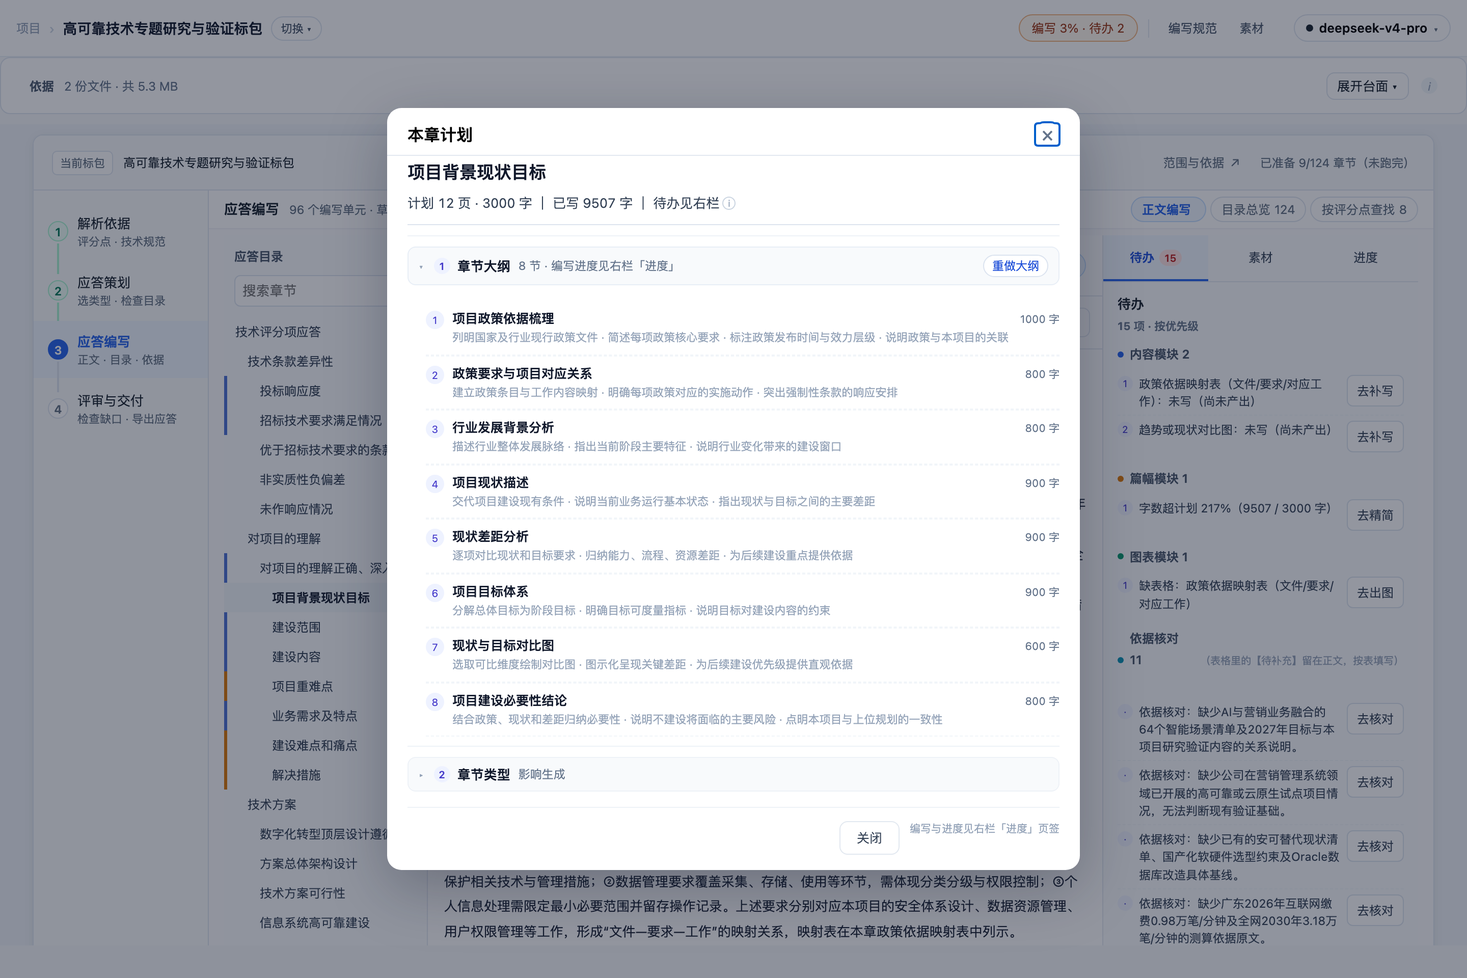
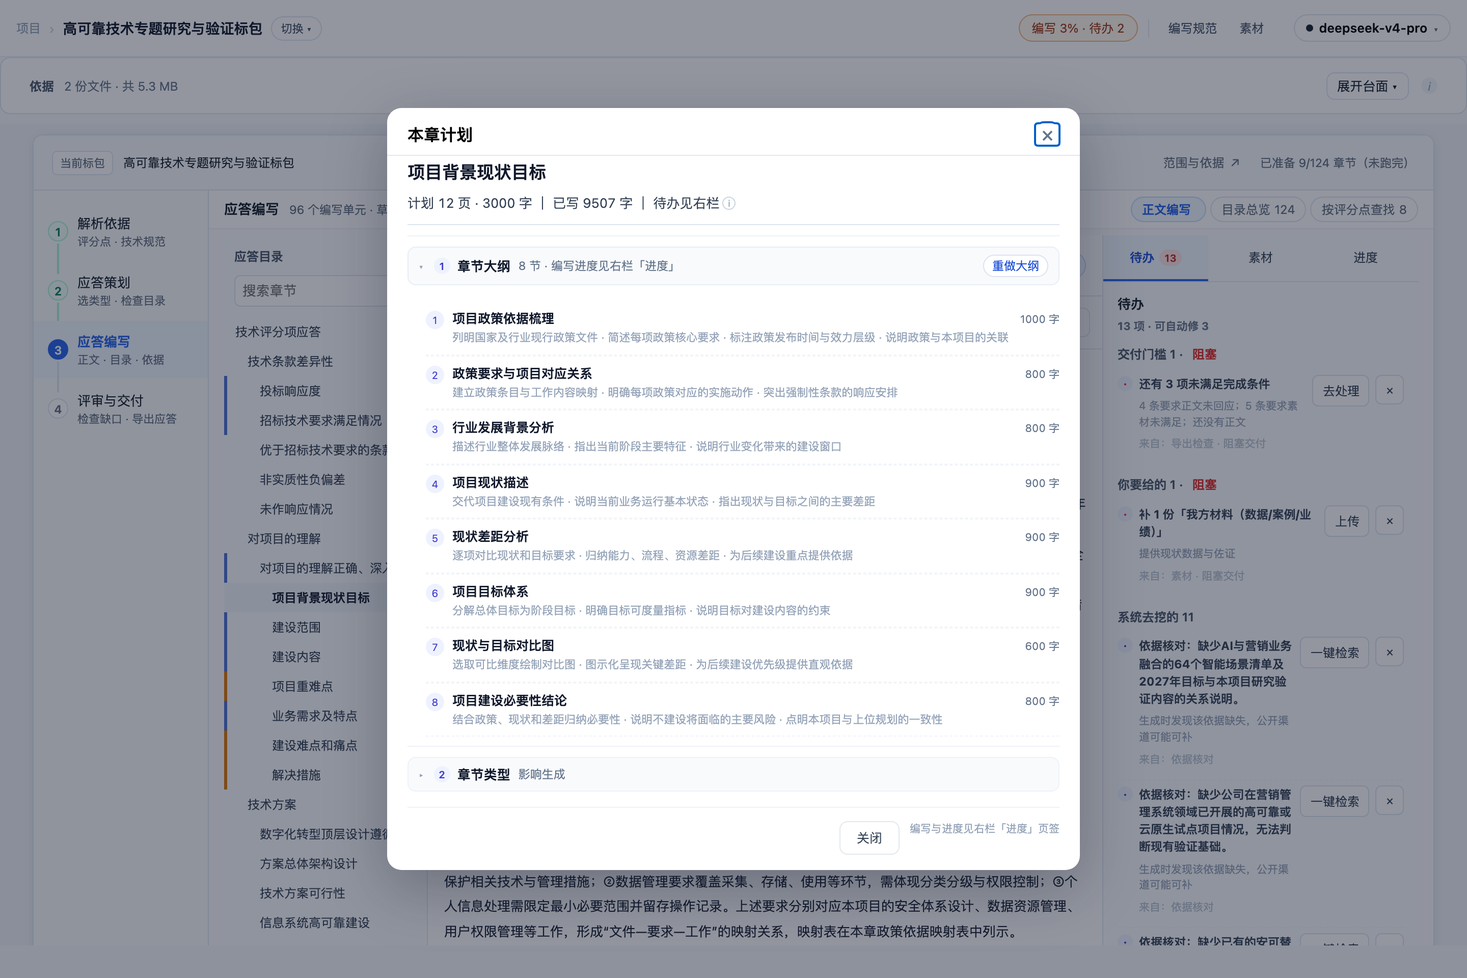
feat(待办): 重构为"按责任分组" —— 从计划完成度改为交付就绪度
按《待办模块-梳理与优化方案》实施 T1/T2/T3/T5(部分)/T6/T7-lite。

## 后端：统一待办 schema（services/writing_plans.py）
`build_todo_items()` 把已有检查结果重排成按"谁来消除"分组：
- gate 交付门槛（阻塞导出）：正文为空 / 完成条件未满足
- user 你要给的（上传）：素材缺口里 availability=upload
- search 系统去挖的（一键检索）：依据核对 + availability=public
- auto 系统自己修的（折叠）：字数不足 / 缺表缺图 / 篇幅超
- decide / proof 预留（一致性、数字核对，T4 未做）
每条统一字段：id/group/group_label/title/evidence/source/severity/action/action_label/status
plan 新增 `todo_items` + `todo_groups`（保留旧 `todo` 兼容）

## 前端：按责任分组渲染
- 组顺序：交付门槛 → 你要给的 → 要你拍板的 → 要你核对的 → 系统去挖的
- 每行：标题 + 证据 + 来源/级别 + 一个主动作 + ×（忽略）
- 阻塞项标红「阻塞」，并排在前面
- E 组折叠为「系统可自动修复 N 项」（不占待办行）
- 徽标口径 = 非 auto 项数（与面板一致）
- 动作：上传→素材页签；一键检索→检索；去处理→完成检查；一键修复→补写该节

## 验证
- 后端接口：16 项 → gate 1 / user 1 / search 11 / auto 3；阻塞项排最前
- 前端实测：面板「13 项 · 可自动修 3」+ 三组 + 折叠区，徽标 13 一致
- 新增后端单测 1 条（分组与字段形态）；界面规则 53 条（新增"自动修复折叠"）
- 后端 974 passed · 界面 53/53（v368）

Changed region(s): [[0.75, 0.5625, 0.9375, 0.9688], [0.75, 0.3125, 0.9375, 0.5312]]

diff --git a/frontend/assets/mode-outline.js b/frontend/assets/mode-outline.js
@@ -2,9 +2,9 @@
    抽成模块的目的：两段内联脚本有 90 个同名顶层标识符 + 18 个重复 DOM id，
    同页拼接必然互相覆盖；各自成为一个模块即各自一个作用域。
    本文件在抽取时**未改任何逻辑**。 */
-import {mountChapterStudio, exportDocument} from './chapter-studio.mjs?v=20261016-v367';
-import { api } from './api.js?v=20261016-v367';
-import { specContentHtml } from './spec-content.mjs?v=20261016-v367';
+import {mountChapterStudio, exportDocument} from './chapter-studio.mjs?v=20261016-v368';
+import { api } from './api.js?v=20261016-v368';
+import { specContentHtml } from './spec-content.mjs?v=20261016-v368';
 // 顶栏（项目名旁边那行「第 N 轮 · ...」）由共享壳 workspace.js 渲染。这里要把它
 // 改成**页面自己的真实状态**：checkpoint 的 stage 在准备中/编写准备完成后都停在
 // outline_review，只看它的话顶栏永远显示"待确认目录"（实测就是这个问题）。
@@ -12,7 +12,7 @@ import { workspace, renderWorkspaceChrome,
          REQUIREMENT_ROLES, SELECTABLE_REQUIREMENT_ROLES, ROLE_LABEL_SHARED, ROLE_HINT_SHARED,
          roleMismatchWarning, inferRoleFromFilename,
          uiAlert, uiConfirm,
-       } from './workspace.js?v=20261016-v367';
+       } from './workspace.js?v=20261016-v368';
 import { resolvePackageScope, buildOutlineTree, isOrphanedRun, activeStages, instructionDirty, newOutlineId, outlineSubtreeRange,
          moveOutlineNode, indentOutlineNode, outdentOutlineNode,
          moveManyOutlineNodes, indentManyOutlineNodes, outdentManyOutlineNodes,
@@ -31,7 +31,7 @@ import { resolvePackageScope, buildOutlineTree, isOrphanedRun, activeStages, ins
          // 章节状态投影：素材库 / 方案编辑 / 覆盖矩阵共用同一份判定（不再各算各的）
          chapterStage, chapterBadges, filterChapters, chapterFilterCounts,
          CHAPTER_STAGE_LABELS, evidenceByChapter, expandVisibleWithAncestors
-       } from './workspace-model.mjs?v=20261016-v367';
+       } from './workspace-model.mjs?v=20261016-v368';
 
 const params = new URLSearchParams(location.search);
 // projectId **只取数字部分**：链接被误写成 `?projectId=19**(Cmd+Shift+R)`（连带说明文字）
@@ -180,7 +180,7 @@ document.head.insertAdjacentHTML('beforeend', `<style>
 // 左栏章节树：行标记与「方案编辑」共用一份（2026-10-13 左栏归一）。
 // 此前两侧各拼一套（.ot-row / .doc-outline-item），数据投影虽已共用，
 // 但标记重复维护会漂移（workspace-model.mjs 注释里记着 "#undefined" 那次）。
-import { chapterNode, chapterBadgesHtml as sharedBadgesHtml } from './chapter-tree.mjs?v=20261016-v367';
+import { chapterNode, chapterBadgesHtml as sharedBadgesHtml } from './chapter-tree.mjs?v=20261016-v368';
 const blocksEmpty = document.getElementById('blocks-empty');
 const sidebarToc  = document.getElementById('sidebar-toc');
 const ringFill    = document.getElementById('ring-fill');

diff --git a/frontend/workbench.html b/frontend/workbench.html
@@ -4,7 +4,7 @@
     <meta charset="UTF-8" />
     <meta name="viewport" content="width=device-width, initial-scale=1.0" />
     <title>智能应标 · 材料撰写</title>
-    <link rel="stylesheet" href="./assets/styles.css?v=20261016-v367" />
+    <link rel="stylesheet" href="./assets/styles.css?v=20261016-v368" />
     <style>
       /* Outline pane */
       .workspace-shell .outline-pane {
@@ -2055,7 +2055,7 @@
     </style>
     <!-- Markdown 渲染（用于预览模式） -->
     <script src="https://cdn.jsdelivr.net/npm/marked@12.0.0/marked.min.js"></script>
-  <link rel="stylesheet" href="./assets/workspace.css?v=20261016-v367" />
+  <link rel="stylesheet" href="./assets/workspace.css?v=20261016-v368" />
   </head>
   <body>
   <script>
@@ -2500,18 +2500,18 @@
       </main>
     </div>
 
-    <script type="module" src="./assets/workbench.js?v=20261016-v367"></script>
+    <script type="module" src="./assets/workbench.js?v=20261016-v368"></script>
     <script type="module">
-      import { GenerateSession } from './assets/generate-session.js?v=20261016-v367';
-      import { initContextPanel } from './assets/context-panel.js?v=20261016-v367';
-      import { api } from './assets/api.js?v=20261016-v367';
-      import { request as workspaceRequest, refreshWorkspace, workspace, confirmChapterAction } from './assets/workspace.js?v=20261016-v367';
+      import { GenerateSession } from './assets/generate-session.js?v=20261016-v368';
+      import { initContextPanel } from './assets/context-panel.js?v=20261016-v368';
+      import { api } from './assets/api.js?v=20261016-v368';
+      import { request as workspaceRequest, refreshWorkspace, workspace, confirmChapterAction } from './assets/workspace.js?v=20261016-v368';
       // 提炼字段枚举 + 素材依据的**渲染片段**与 project-init 共用（见 workspace-model.mjs 注释）：
       // 性质徽标与出处行的实现在那边只有一份，两个页面不再各写一套（曾经因此漂移出
       // "每行显示 #undefined"）。
       import { CONSTRAINT_LEVELS, constraintLevelLabel,
                evidenceKindBadgeHtml, evidenceSourceLineHtml, evidenceSnippet,
-               chapterStage, CHAPTER_STAGE_LABELS } from './assets/workspace-model.mjs?v=20261016-v367';
+               chapterStage, CHAPTER_STAGE_LABELS } from './assets/workspace-model.mjs?v=20261016-v368';
       initContextPanel();
 
       // 素材抽屉：默认收起（写作时右栏就是正文本身），点工具栏「素材 n ▸」打开；
@@ -5575,6 +5575,6 @@
       })();
     })();
     </script>
-  <script type="module" src="./assets/workspace.js?v=20261016-v367"></script>
+  <script type="module" src="./assets/workspace.js?v=20261016-v368"></script>
   </body>
 </html>

diff --git a/frontend/three-mode.html b/frontend/three-mode.html
@@ -4,9 +4,9 @@
     <meta charset="UTF-8" />
     <meta name="viewport" content="width=device-width, initial-scale=1.0" />
     <title>AiBidding · Workbench Init State</title>
-    <link rel="stylesheet" href="./assets/response-outline.css?v=20261016-v367" />
-    <link rel="stylesheet" href="./assets/chapter-studio.css?v=20261016-v367" />
-    <link rel="stylesheet" href="./assets/styles.css?v=20261016-v367" />
+    <link rel="stylesheet" href="./assets/response-outline.css?v=20261016-v368" />
+    <link rel="stylesheet" href="./assets/chapter-studio.css?v=20261016-v368" />
+    <link rel="stylesheet" href="./assets/styles.css?v=20261016-v368" />
     <style>
 /* ── 三栏布局 ── */
 .init-layout {
@@ -3350,8 +3350,8 @@ body[data-view="matching"] .match-detail { display: block; }
   body[data-view="editor"] .ws-editor-layout { flex: 1 1 auto; min-height: 0; }
 
 </style>
-  <link rel="stylesheet" href="./assets/workspace.css?v=20261016-v367" />
-  <link rel="stylesheet" href="./assets/ui.css?v=20261016-v367" />   <!-- 组件最小集：最后加载以统一历史类名 -->
+  <link rel="stylesheet" href="./assets/workspace.css?v=20261016-v368" />
+  <link rel="stylesheet" href="./assets/ui.css?v=20261016-v368" />   <!-- 组件最小集：最后加载以统一历史类名 -->
   </head>
   <body data-view="outline" data-modes="outline,matching,editor">
     <div class="workspace-shell">
@@ -4062,16 +4062,16 @@ body[data-view="matching"] .match-detail { display: block; }
         if (skel) skel.hidden = true;
       }, 6000);
     </script>
-    <script type="module" src="./assets/workbench.js?v=20261016-v367"></script>
-    <script type="module" src="./assets/mode-dispatch.js?v=20261016-v367"></script>
+    <script type="module" src="./assets/workbench.js?v=20261016-v368"></script>
+    <script type="module" src="./assets/mode-dispatch.js?v=20261016-v368"></script>
     <!-- 动态 import：失败可捕获并上报（静态 import 失败无法捕获，会让整页静默不执行） -->
     <script type="module">
-      for (const mod of ['./assets/mode-outline.js?v=20261016-v367',
-                        './assets/mode-editor.js?v=20261016-v367']) {
+      for (const mod of ['./assets/mode-outline.js?v=20261016-v368',
+                        './assets/mode-editor.js?v=20261016-v368']) {
         try { await import(mod); }
         catch (err) { window.__bootErrors.push(`模块加载失败 ${mod}：${err?.message || err}`); }
       }
     </script>
-  <script type="module" src="./assets/workspace.js?v=20261016-v367"></script>
+  <script type="module" src="./assets/workspace.js?v=20261016-v368"></script>
   </body>
 </html>

diff --git a/frontend/project-init.html b/frontend/project-init.html
@@ -4,7 +4,7 @@
     <meta charset="UTF-8" />
     <meta name="viewport" content="width=device-width, initial-scale=1.0" />
     <title>AiBidding · Workbench Init State</title>
-    <link rel="stylesheet" href="./assets/styles.css?v=20261016-v367" />
+    <link rel="stylesheet" href="./assets/styles.css?v=20261016-v368" />
     <style>
 /* ── 三栏布局 ── */
 .init-layout {
@@ -889,7 +889,7 @@ body[data-view="matching"] .match-detail { display: block; }
   background: #eff6ff;
 }
     </style>
-  <link rel="stylesheet" href="./assets/workspace.css?v=20261016-v367" />
+  <link rel="stylesheet" href="./assets/workspace.css?v=20261016-v368" />
   </head>
   <body data-view="outline">
   <script>
@@ -1097,14 +1097,14 @@ body[data-view="matching"] .match-detail { display: block; }
     </div>
 
     <script type="module">
-import { api } from './assets/api.js?v=20261016-v367';
+import { api } from './assets/api.js?v=20261016-v368';
 // 顶栏（项目名旁边那行「第 N 轮 · ...」）由共享壳 workspace.js 渲染。这里要把它
 // 改成**页面自己的真实状态**：checkpoint 的 stage 在提炼中/提炼完成后都停在
 // outline_review，只看它的话顶栏永远显示"待确认目录"（实测就是这个问题）。
 import { workspace, renderWorkspaceChrome,
          REQUIREMENT_ROLES, ROLE_LABEL_SHARED, ROLE_HINT_SHARED,
          roleMismatchWarning, inferRoleFromFilename,
-       } from './assets/workspace.js?v=20261016-v367';
+       } from './assets/workspace.js?v=20261016-v368';
 import { buildOutlineTree, isOrphanedRun, activeStages, instructionDirty, newOutlineId, outlineSubtreeRange,
          moveOutlineNode, indentOutlineNode, outdentOutlineNode,
          removeOutlineSubtree, insertSiblingAfter, insertChildOf,
@@ -1118,7 +1118,7 @@ import { buildOutlineTree, isOrphanedRun, activeStages, instructionDirty, newOut
          // 章节状态投影：素材库 / 方案编辑 / 覆盖矩阵共用同一份判定（不再各算各的）
          chapterStage, chapterBadges, filterChapters, chapterFilterCounts,
          CHAPTER_STAGE_LABELS, evidenceByChapter, expandVisibleWithAncestors
-       } from './assets/workspace-model.mjs?v=20261016-v367';
+       } from './assets/workspace-model.mjs?v=20261016-v368';
 
 const params = new URLSearchParams(location.search);
 const projectId = params.get('projectId');
@@ -4957,6 +4957,6 @@ bindMatchDetailActions();
   });
 })();
     </script>
-  <script type="module" src="./assets/workspace.js?v=20261016-v367"></script>
+  <script type="module" src="./assets/workspace.js?v=20261016-v368"></script>
   </body>
 </html>

diff --git a/frontend/assets/mode-editor.js b/frontend/assets/mode-editor.js
@@ -2,13 +2,13 @@
    抽成模块的目的：两段内联脚本有 90 个同名顶层标识符 + 18 个重复 DOM id，
    同页拼接必然互相覆盖；各自成为一个模块即各自一个作用域。
    本文件在抽取时**未改任何逻辑**。 */
-import { GenerateSession } from './generate-session.js?v=20261016-v367';
+import { GenerateSession } from './generate-session.js?v=20261016-v368';
 // 左栏章节树：与「要求与大纲 / 素材库」共用一份行标记（2026-10-13 左栏归一）
-import { chapterNode, renderChapterTree } from './chapter-tree.mjs?v=20261016-v367';
-import { initContextPanel } from './context-panel.js?v=20261016-v367';
-import { api } from './api.js?v=20261016-v367';
+import { chapterNode, renderChapterTree } from './chapter-tree.mjs?v=20261016-v368';
+import { initContextPanel } from './context-panel.js?v=20261016-v368';
+import { api } from './api.js?v=20261016-v368';
 import { request as workspaceRequest, refreshWorkspace, workspace, confirmChapterAction ,
-         uiAlert, uiConfirm} from './workspace.js?v=20261016-v367';
+         uiAlert, uiConfirm} from './workspace.js?v=20261016-v368';
 
 // ── 本章要求 bar 的应答条目缓存 ──────────────────────────────
 // 必须**声明在模块最前面**：它原本声明在文件中部，而模块之间存在循环依赖
@@ -21,7 +21,7 @@ let responseItemsByBlock = {};
 // "每行显示 #undefined"）。
 import { CONSTRAINT_LEVELS, constraintLevelLabel,
          evidenceKindBadgeHtml, evidenceSourceLineHtml, evidenceSnippet,
-         chapterStage, CHAPTER_STAGE_LABELS } from './workspace-model.mjs?v=20261016-v367';
+         chapterStage, CHAPTER_STAGE_LABELS } from './workspace-model.mjs?v=20261016-v368';
 initContextPanel();
 
 // 素材抽屉：默认收起（写作时右栏就是正文本身），点工具栏「素材 n ▸」打开；

diff --git a/frontend/project-intake.html b/frontend/project-intake.html
@@ -3,7 +3,7 @@
 <head>
   <meta charset="utf-8"><meta name="viewport" content="width=device-width,initial-scale=1">
   <title>项目准备 · 智能应标</title>
-  <link rel="stylesheet" href="/assets/styles.css?v=20261016-v367">
+  <link rel="stylesheet" href="/assets/styles.css?v=20261016-v368">
   <style>
     body{margin:0;background:#f7f8fa;color:#17202a;font-family:Inter,"PingFang SC",sans-serif}
     .shell{max-width:1120px;margin:auto;padding:28px}.top{display:flex;justify-content:space-between;align-items:center;margin-bottom:22px}
@@ -32,4 +32,4 @@
 </main>
 <dialog id="package-editor"><form id="package-form"><h2>编辑投标对象</h2><p class="hint">仅在识别有误时修改；名称可留空。</p><input id="edit-id" type="hidden"><label>对象类型<select id="edit-kind"><option value="package">标包</option><option value="section">标段</option><option value="target">独立标的</option></select></label><label>所属标的编号<input id="edit-target"></label><label>标包 / 标段编号<input id="edit-code"></label><label>完整名称<input id="edit-name" maxlength="300"></label><div class="actions"><button type="button" id="cancel-edit">取消</button><button class="primary" type="submit">保存</button></div></form></dialog>
 <dialog id="merge-dialog"><form id="merge-form"><h2>合并重复候选</h2><p class="hint">将当前候选的证据合并到以下保留项。已有运行成果的候选不能合并，保留项需要重新核验。</p><input id="merge-source" type="hidden"><label>保留的投标对象<select id="merge-destination"></select></label><div class="actions"><button type="button" id="cancel-merge">取消</button><button type="submit" class="primary">确认合并</button></div></form></dialog>
-<script type="module" src="/assets/intake.js?v=20261016-v367"></script></body></html>
+<script type="module" src="/assets/intake.js?v=20261016-v368"></script></body></html>

diff --git a/frontend/review.html b/frontend/review.html
@@ -4,16 +4,16 @@
     <meta charset="UTF-8" />
     <meta name="viewport" content="width=device-width, initial-scale=1.0" />
     <title>AiBidding · 质量检查</title>
-    <link rel="stylesheet" href="./assets/styles.css?v=20261016-v367" />
-    <link rel="stylesheet" href="./assets/review.css?v=20261016-v367" />
-  <link rel="stylesheet" href="./assets/workspace.css?v=20261016-v367" />
+    <link rel="stylesheet" href="./assets/styles.css?v=20261016-v368" />
+    <link rel="stylesheet" href="./assets/review.css?v=20261016-v368" />
+  <link rel="stylesheet" href="./assets/workspace.css?v=20261016-v368" />
   <style>
     /* 返回作业面板：与项目名同级的次级入口 */
     .back-to-panel { margin-left:10px; font-size:12.5px; color:var(--muted); text-decoration:none;
       border:1px solid var(--line); border-radius:8px; padding:3px 10px; }
     .back-to-panel:hover { color:var(--text); background:var(--bg-2); }
   </style>
-  <link rel="stylesheet" href="./assets/ui.css?v=20261016-v367" />   <!-- 组件最小集：最后加载以统一历史类名 -->
+  <link rel="stylesheet" href="./assets/ui.css?v=20261016-v368" />   <!-- 组件最小集：最后加载以统一历史类名 -->
   </head>
   <body>
     <div class="workspace-shell">
@@ -96,7 +96,7 @@
       </main>
     </div>
 
-    <script type="module" src="./assets/review.js?v=20261016-v367"></script>
-  <script type="module" src="./assets/workspace.js?v=20261016-v367"></script>
+    <script type="module" src="./assets/review.js?v=20261016-v368"></script>
+  <script type="module" src="./assets/workspace.js?v=20261016-v368"></script>
   </body>
 </html>

diff --git a/frontend/assets/workbench.js b/frontend/assets/workbench.js
@@ -1,12 +1,12 @@
-import {workspace, subscribe, refreshWorkspace, workspaceUrl, confirmChapterAction, openDialog, showHistory, statusLabels, esc} from './workspace.js?v=20261016-v367';
+import {workspace, subscribe, refreshWorkspace, workspaceUrl, confirmChapterAction, openDialog, showHistory, statusLabels, esc} from './workspace.js?v=20261016-v368';
 // 章节状态/依据徽标与「素材库」共用一份投影（同一棵目录树，四个环节都一样）
-import {chapterBadges, parseEvidence} from './workspace-model.mjs?v=20261016-v367';
+import {chapterBadges, parseEvidence} from './workspace-model.mjs?v=20261016-v368';
 // 左栏章节树：**三个模式共用一份**行标记（2026-10-13 归一）。
 // 此前编辑器侧自己拼 `.doc-outline-item`、大纲侧拼 `.ot-row`，是两套实现；
 // 数据投影本就共用（workspace-model），这里把标记也收敛掉。
 // 行上仍保留 `doc-outline-item` 类与 data-block-id 属性，兼容 mode-editor.js 里
 // 既有的 10 处选择器（改动面最小化）。
-import {chapterNode, renderChapterTree, chapterBadgesHtml} from './chapter-tree.mjs?v=20261016-v367';
+import {chapterNode, renderChapterTree, chapterBadgesHtml} from './chapter-tree.mjs?v=20261016-v368';
 // 左栏树的**唯一宿主**：由 mode-dispatch 在模式切换时把 #blocks-list 搬到当前模式的
 // 左栏位置。归一前这里是 `.doc-outline`，与大纲侧 `#blocks-list` 各渲一棵（实测
 // .ot-node 有 120 个 = 两棵各 60）。动态解析而不是加载时捕获，就是为了让宿主可搬。

diff --git a/frontend/projects.html b/frontend/projects.html
@@ -4,7 +4,7 @@
     <meta charset="UTF-8" />
     <meta name="viewport" content="width=device-width, initial-scale=1.0" />
     <title>智能应标 · 项目列表</title>
-    <link rel="stylesheet" href="./assets/styles.css?v=20261016-v367" />
+    <link rel="stylesheet" href="./assets/styles.css?v=20261016-v368" />
     <style>
       /* ── 页头 ── */
       .app-header {
@@ -613,7 +613,7 @@
       .btn-api-save:disabled { opacity: 0.45; cursor: default; }
       .btn-api-save:not(:disabled):hover { opacity: 0.88; }
     </style>
-    <link rel="stylesheet" href="./assets/ui.css?v=20261016-v367" />   <!-- 组件最小集：最后加载以统一历史类名 -->
+    <link rel="stylesheet" href="./assets/ui.css?v=20261016-v368" />   <!-- 组件最小集：最后加载以统一历史类名 -->
 </head>
   <body>
     <!-- 页头 -->
@@ -745,7 +745,7 @@
     </div>
 
     <script type="module">
-      import { api } from './assets/api.js?v=20261016-v367';
+      import { api } from './assets/api.js?v=20261016-v368';
 
       // ── 状态 ──
       const reqFiles = []; // {file, name, size, ext}

diff --git a/frontend/diff-review.html b/frontend/diff-review.html
@@ -4,8 +4,8 @@
     <meta charset="UTF-8" />
     <meta name="viewport" content="width=device-width, initial-scale=1.0" />
     <title>AiBidding · Diff Review</title>
-    <link rel="stylesheet" href="./assets/styles.css?v=20261016-v367" />
-  <link rel="stylesheet" href="./assets/workspace.css?v=20261016-v367" />
+    <link rel="stylesheet" href="./assets/styles.css?v=20261016-v368" />
+  <link rel="stylesheet" href="./assets/workspace.css?v=20261016-v368" />
   </head>
   <body>
     <div class="workspace-shell">
@@ -98,7 +98,7 @@
     </div>
 
     <script type="module">
-      import { api } from './assets/api.js?v=20261016-v367';
+      import { api } from './assets/api.js?v=20261016-v368';
 
       const params    = new URLSearchParams(location.search);
       const projectId = params.get('projectId');
@@ -326,6 +326,6 @@
 
       loadRevisions();
     </script>
-  <script type="module" src="./assets/workspace.js?v=20261016-v367"></script>
+  <script type="module" src="./assets/workspace.js?v=20261016-v368"></script>
   </body>
 </html>

diff --git a/frontend/assets/workspace.js b/frontend/assets/workspace.js
@@ -1,11 +1,11 @@
-import {projectChapters, summarize, statusLabels, stageLabels, activeStages, runtimeStages, isOrphanedRun, isExtractDone, diffHtml, escapeHtml as esc} from './workspace-model.mjs?v=20261016-v367';
+import {projectChapters, summarize, statusLabels, stageLabels, activeStages, runtimeStages, isOrphanedRun, isExtractDone, diffHtml, escapeHtml as esc} from './workspace-model.mjs?v=20261016-v368';
 export {statusLabels, esc};
 // 材料角色体系再导出：project-init 的角色下拉与"分类纠错提示"都从这里取
 export {
   REQUIREMENT_ROLES, SELECTABLE_REQUIREMENT_ROLES, SOURCE_ROLES, ALL_MATERIAL_ROLES,
   ROLE_LABEL as ROLE_LABEL_SHARED, ROLE_HINT as ROLE_HINT_SHARED,
   isRequirementRole, inferRoleFromFilename, roleMismatchWarning,
-} from './material-roles.mjs?v=20261016-v367';
+} from './material-roles.mjs?v=20261016-v368';
 export async function request(url, options) {
   const response = await fetch(url, options);
   const data = await response.json().catch(() => ({}));

diff --git a/frontend/assets/chapter-studio.css b/frontend/assets/chapter-studio.css
@@ -767,3 +767,14 @@ h2.cs-sec-writing, h3.cs-sec-writing, h4.cs-sec-writing { background: #fef3c7 !i
 .cs-save-dot.is-error { background: #ef4444; }
 .cs-save-act { font: inherit; font-size: 10.5px; color: #1d4ed8; background: none; border: 0;
   padding: 0 2px; cursor: pointer; text-decoration: underline; }
+
+/* 待办 v2：责任分组 */
+.cs-todo-block { color: #dc2626; font-weight: 600; }
+.cs-todo-idx.is-block { color: #dc2626; }
+.cs-todo-text small { display: block; color: #94a3b8; font-size: 10.5px; line-height: 1.5; }
+.cs-todo-src { color: #b6c2d1 !important; }
+.cs-todo-ignore { border: 0; background: none; color: #cbd5e1; cursor: pointer; font-size: 13px; padding: 0 2px; }
+.cs-todo-ignore:hover { color: #94a3b8; }
+.cs-todo-auto { margin-top: 10px; border-top: 1px dashed #eef2f7; padding-top: 6px; }
+.cs-todo-auto > summary { cursor: pointer; list-style: none; font-size: 10.5px; color: #64748b; }
+.cs-todo-auto > summary::-webkit-details-marker { display: none; }
